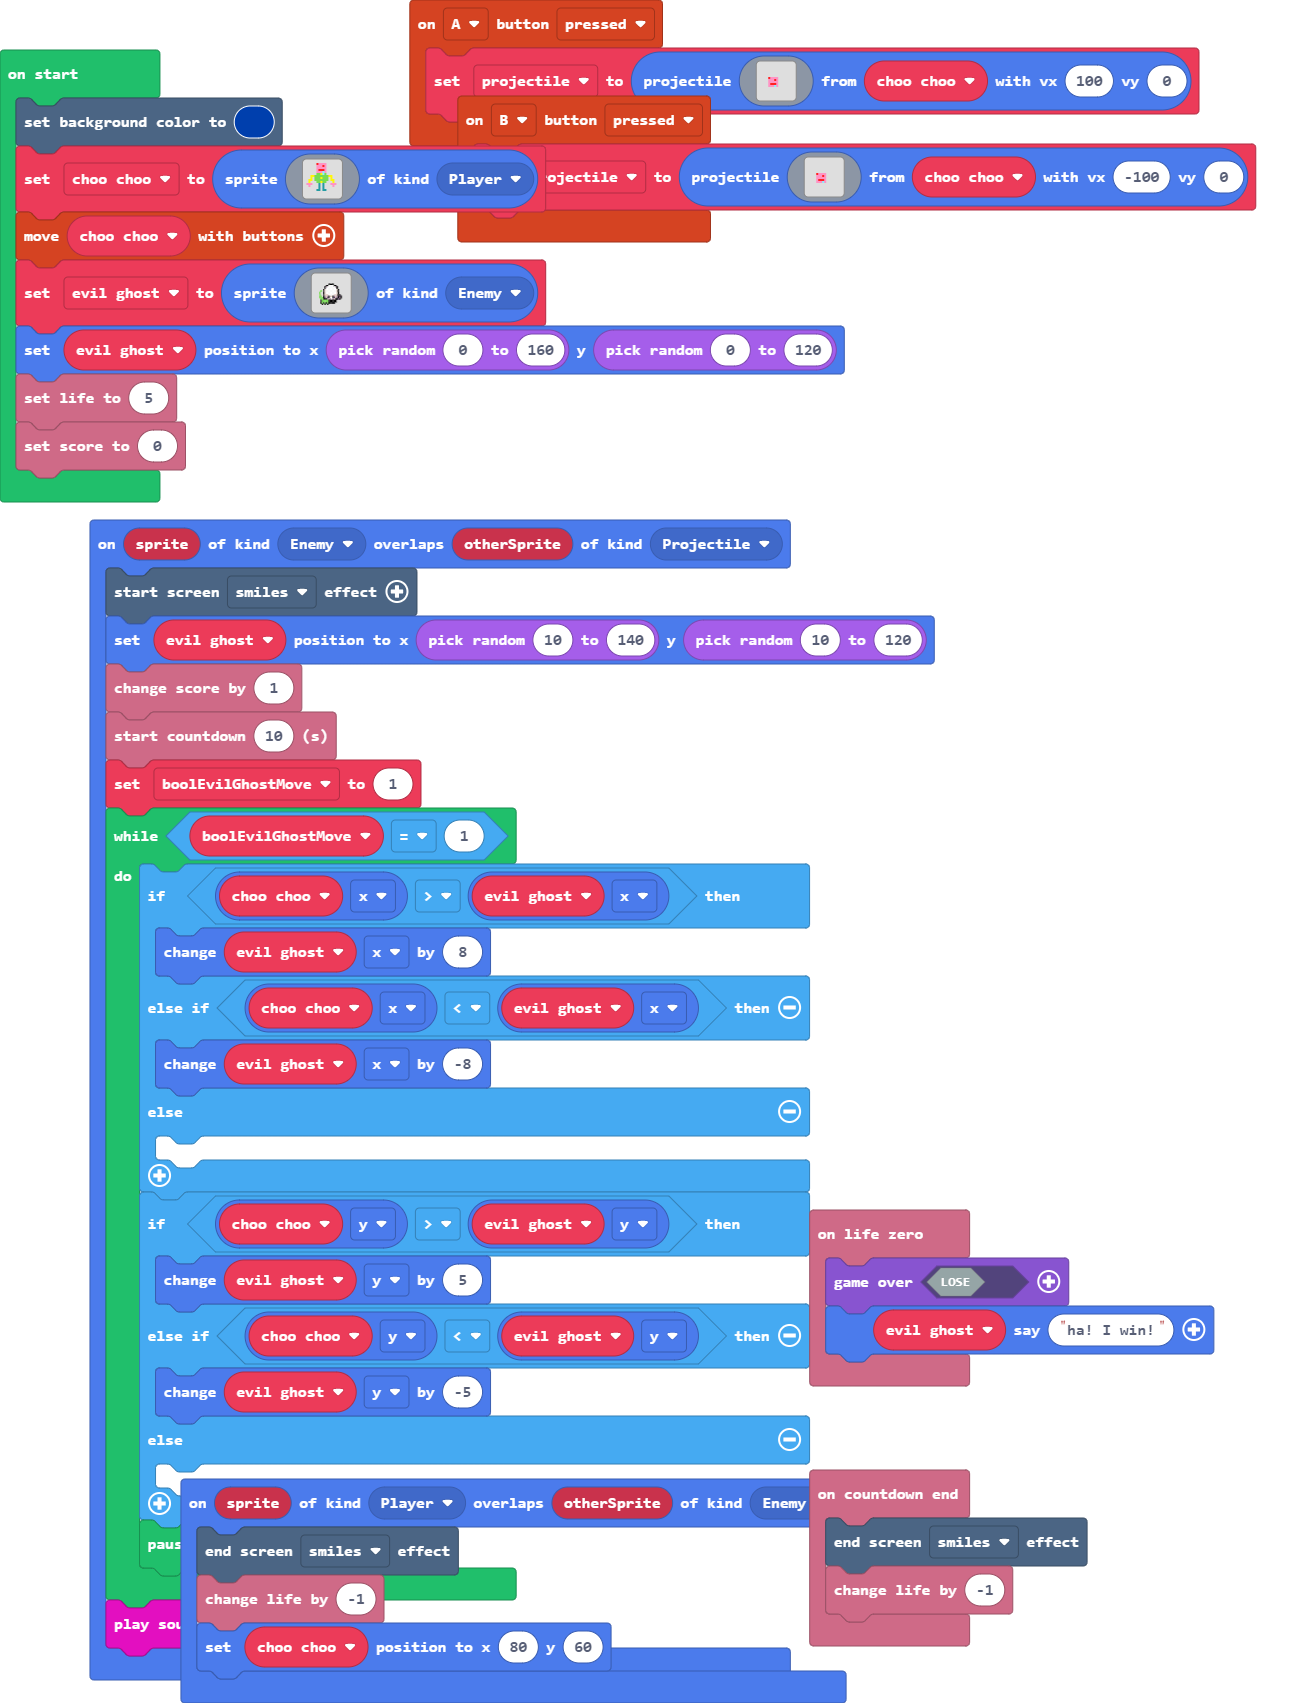
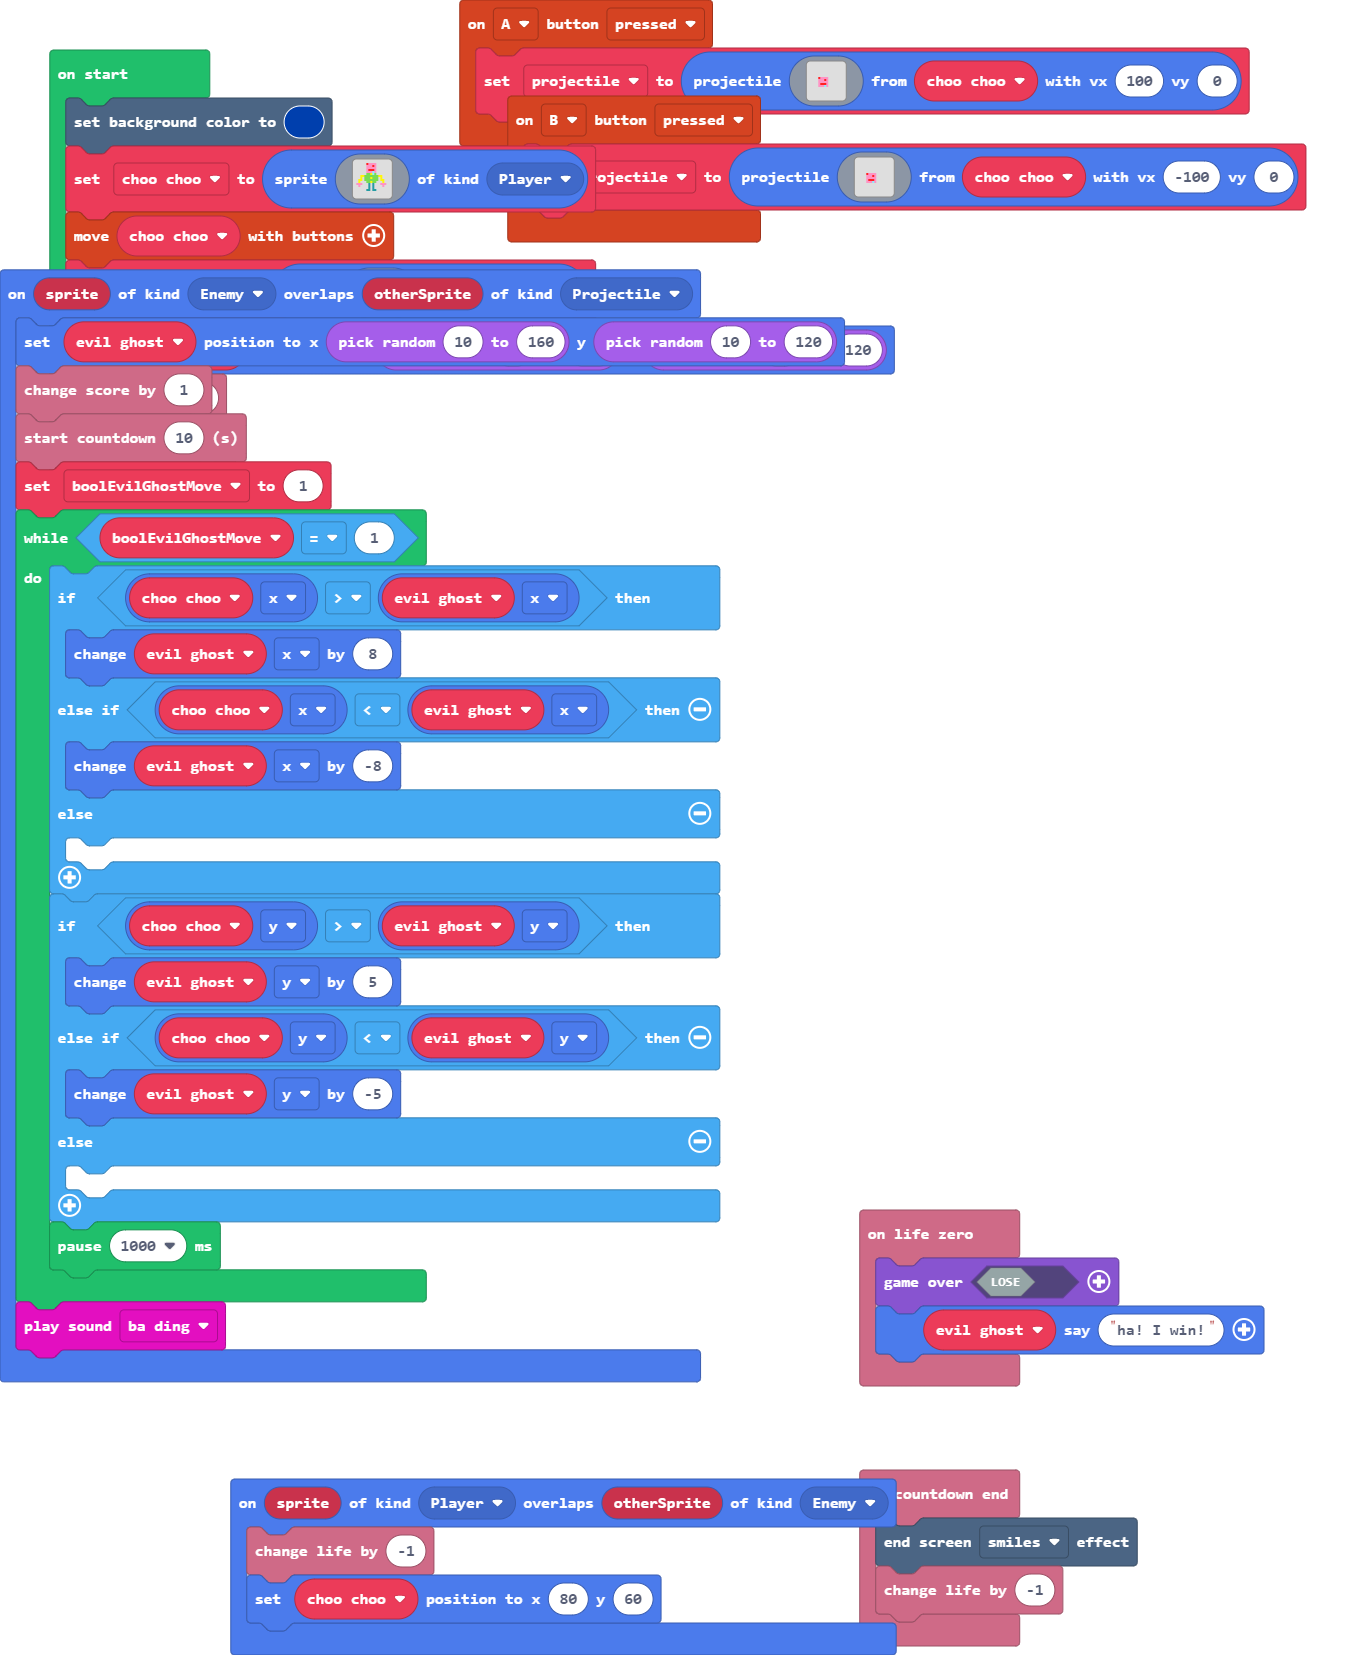
I have stopped the smiles because it distracting and it is not good to be chased by a ghost.

diff --git a/main.ts b/main.ts
@@ -39,8 +39,7 @@ controller.A.onEvent(ControllerButtonEvent.Pressed, function () {
         `, choo_choo, 100, 0)
 })
 sprites.onOverlap(SpriteKind.Enemy, SpriteKind.Projectile, function (sprite, otherSprite) {
-    effects.smiles.startScreenEffect()
-    evil_ghost.setPosition(randint(10, 140), randint(10, 120))
+    evil_ghost.setPosition(randint(10, 160), randint(10, 120))
     info.changeScoreBy(1)
     info.startCountdown(10)
     boolEvilGhostMove = 1
@@ -72,7 +71,6 @@ info.onLifeZero(function () {
     evil_ghost.say("ha! I win!")
 })
 sprites.onOverlap(SpriteKind.Player, SpriteKind.Enemy, function (sprite, otherSprite) {
-    effects.smiles.endScreenEffect()
     info.changeLifeBy(-1)
     choo_choo.setPosition(80, 60)
 })
@@ -126,6 +124,6 @@ evil_ghost = sprites.create(img`
     ........................
     ........................
     `, SpriteKind.Enemy)
-evil_ghost.setPosition(randint(0, 160), randint(0, 120))
+evil_ghost.setPosition(randint(10, 160), randint(10, 120))
 info.setLife(5)
 info.setScore(0)
